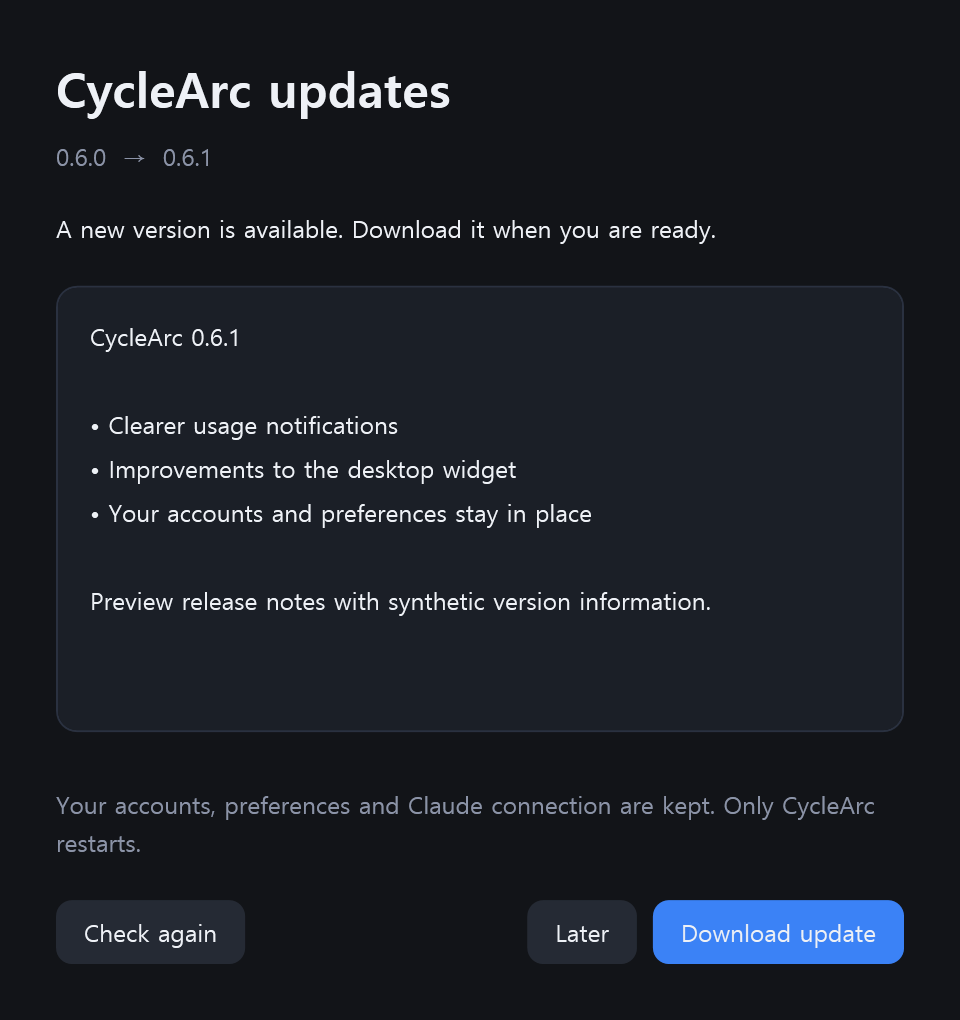
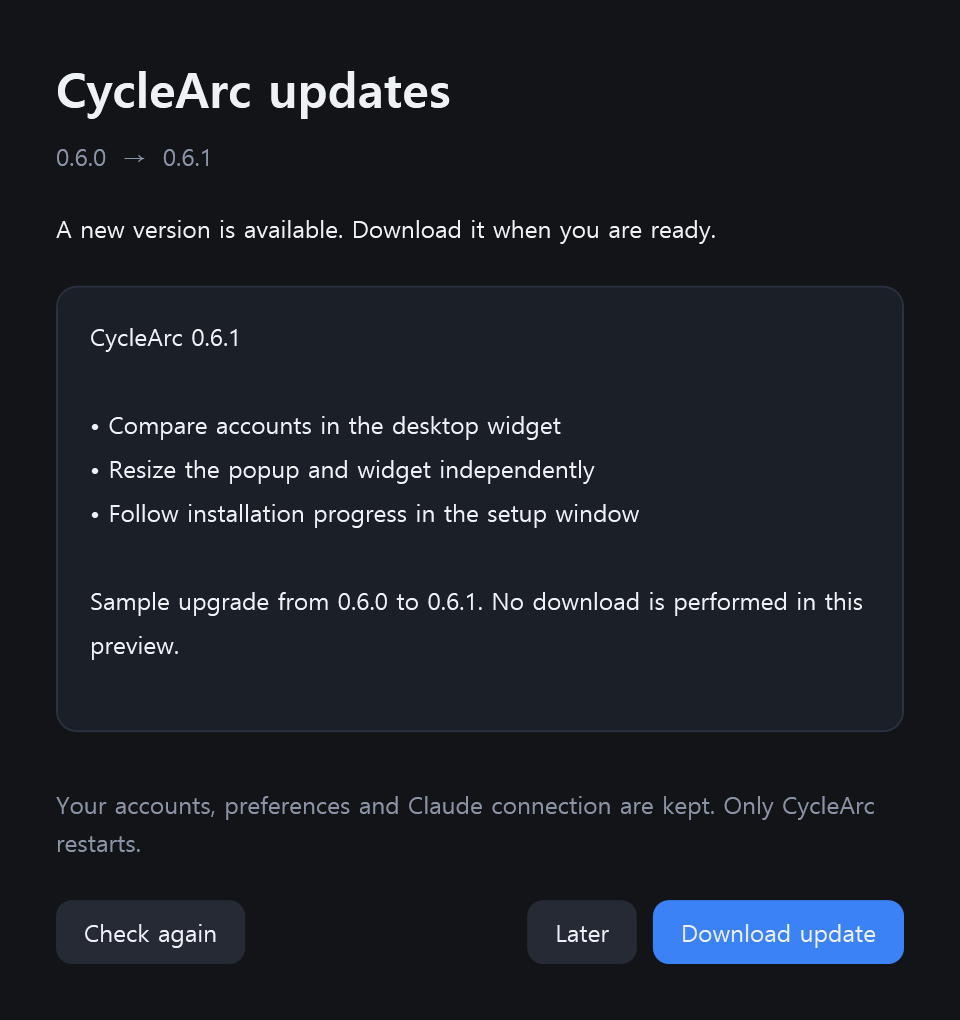
docs: refresh current previews and prepare CycleArc 0.6.1

Changed region(s): [[0.0938, 0.4559, 0.6562, 0.5167], [0.0938, 0.5775, 0.9062, 0.6382], [0.125, 0.3951, 0.5938, 0.4255]]

diff --git a/tests/CycleArc.UiSmoke/UpdateUiChecks.cs b/tests/CycleArc.UiSmoke/UpdateUiChecks.cs
@@ -162,8 +162,8 @@ internal static class UpdateUiChecks
         public int Downloads { get; private set; }
         public int Applies { get; private set; }
         public Task<AppUpdateRelease?> CheckAsync(CancellationToken token) => Task.FromResult<AppUpdateRelease?>(new("0.6.1",
-            UiText.T("CycleArc 0.6.1\n\n• Clearer usage notifications\n• Improvements to the desktop widget\n• Your accounts and preferences stay in place\n\nPreview release notes with synthetic version information.",
-                "CycleArc 0.6.1\n\n• 사용량 알림 개선\n• 데스크톱 위젯 안정성 개선\n• 기존 계정과 설정 유지\n\n가상 버전 정보로 표시한 업데이트 화면 예시입니다.")));
+            UiText.T("CycleArc 0.6.1\n\n• Compare accounts in the desktop widget\n• Resize the popup and widget independently\n• Follow installation progress in the setup window\n\nSample upgrade from 0.6.0 to 0.6.1. No download is performed in this preview.",
+                "CycleArc 0.6.1\n\n• 데스크톱 위젯에서 여러 계정 비교\n• 팝업과 위젯 크기를 각각 조절\n• 설치 화면에서 진행 상태 확인\n\n0.6.0에서 0.6.1로 업데이트하는 예시입니다. 이 미리보기는 다운로드하지 않습니다.")));
         public Task DownloadAsync(AppUpdateRelease release, IProgress<int> progress, CancellationToken token)
         {
             Downloads++;

diff --git a/README.md b/README.md
@@ -29,7 +29,7 @@ The **Codex** or **Claude** label on account cards, selected details, tray toolt
 
 ## At a glance
 
-- **Codex and Claude together.** Connect an existing CLI login or sign in through the official browser flow. Connected Claude accounts appear immediately, with **Awaiting usage** until the first sample; choose which account appears in the tray and widget.
+- **Codex and Claude together.** Connect an existing CLI login or sign in through the official browser flow. Connected Claude accounts appear immediately, with **Awaiting usage** until the first sample. Select an account for the detail card and tray; the widget compares accounts side by side and highlights the selection.
 - **Usage in the tray.** A Windows notification-area icon keeps the meter within reach. Click for the detailed card; pin it to keep it visible.
 - **Clear quota windows.** See usage and remaining percentages, reset times and countdowns for each reported five-hour or weekly window. The ring, tray and widget share one display period: **Auto** uses a known five-hour percentage first, then weekly. Choose **Auto / 5 hours / Weekly** above the detail ring, or click the ring to switch when both values are known. The selection applies immediately to all three views and is saved across restarts. If the selected period has no known value, a known available period is shown with an explanation in the detail card.
 - **Reset credits.** View the available count and expiry times when the server supplies them. Use an individual reset after confirmation. Missing expiry information stays explicitly unknown.
@@ -39,10 +39,10 @@ The **Codex** or **Claude** label on account cards, selected details, tray toolt
 
 ## Get started
 
-**Requirements:** Windows 10/11 on x64. Codex monitoring requires an installed Codex CLI signed into a ChatGPT account that reports subscription limits, and network access. Claude monitoring requires the official Claude CLI for connection verification, Windows PowerShell, a signed-in Claude Desktop account for live checks, and a signed-in Claude Pro or Max account. StatusLine and Desktop subscription history remain fallbacks; Codex sign-in is not required.
+**Requirements:** Windows 10/11 on x64. Codex monitoring requires the installed Codex CLI and network access; discover an existing CLI login or sign in to another account through CycleArc. Claude monitoring requires the official Claude CLI for connection verification, Windows PowerShell, a signed-in Claude Desktop account for live checks, and a signed-in Claude Pro or Max account. StatusLine and Desktop subscription history remain fallbacks.
 
 1. Download **`CycleArc-Setup.exe`** from the [latest release](https://github.com/frozenvoice/cyclearc/releases/latest).
-2. Run the setup program. CycleArc installs under `%LOCALAPPDATA%\CycleArc`; the .NET runtime is bundled. Your settings, accounts and quota cache remain under `%LOCALAPPDATA%\ProMeter`.
+2. Run the setup program, review the installation location and choose **Install**. Follow its progress, then choose **Run CycleArc → Finish**. A new installation goes under `%LOCALAPPDATA%\Programs\CycleArc`; an existing installation keeps its registered location, including the former `%LOCALAPPDATA%\CycleArc` path. The .NET runtime is bundled. Your settings, accounts and quota cache remain under `%LOCALAPPDATA%\ProMeter`.
 3. Open the tray icon and **Manage accounts → Add an account**. For Codex, existing CLI sign-ins are discovered automatically; choose **New account sign-in** to add another account. For Claude, choose **Connect Claude**, then connect the current login or sign in through your browser.
 4. Codex appears after a successful quota check; Claude appears after verified connection and attempts a Desktop live check, with statusLine/history fallback when needed. If Codex cannot be found, install the [Codex CLI](https://developers.openai.com/codex/cli/) or open **Settings → Connection** and select its executable path. For Claude setup, follow the [connection steps below](#claude-code-connection).
 
@@ -52,15 +52,15 @@ CycleArc discovers `codex.exe` or `codex.cmd` through PATH and supported install
 
 An ordinary launch keeps the first running instance and opens its popup, which shows the running version. Development builds and releases have equal priority. Windows startup uses the installed launcher and does not bring an already running window forward.
 
-The setup installs the stable channel and keeps it current through GitHub Releases. CycleArc checks 20 seconds after startup and then every six hours. A stable release is offered with English/Korean release notes; choose **Download**, then **Restart & update** to apply it, or choose **Later**. Updates are not applied automatically at startup. The complete `.nupkg` is SHA-256 checked after download and again before Velopack applies it.
+The setup installs the stable channel and keeps it current through GitHub Releases. CycleArc checks 20 seconds after startup and then every six hours. A stable release is offered with English/Korean release notes; choose **Download update**, then **Restart & update** to apply it, or choose **Later**. Updates are not applied automatically at startup. The complete `.nupkg` is SHA-256 checked after download and again before Velopack applies it.
 
 Release artifacts are unsigned unless the release pipeline is configured for code signing. Installing with `CycleArc-Setup.exe` alone does not remove Windows SmartScreen warnings.
 
 Before replacement, CycleArc keeps a verified copy of the previous app outside its installation. If replacement fails or the new desktop does not become ready, a separate helper restores and restarts the previous version. Accounts and settings stay outside both app versions. If recovery itself is blocked, the backup is retained and its location is shown; this check covers startup, not failures later in a session.
 
-The installed desktop runs from `%LOCALAPPDATA%\CycleArc\current\CycleArc.exe`. `%LOCALAPPDATA%\CycleArc\CycleArc.exe` is the stable launcher used for desktop and Windows-startup entry points; Claude statusLine and failure callbacks use the current executable directly so stdin/stdout forwarding remains synchronous. Existing exact CycleArc-owned Claude callbacks migrate after a matching CLI identity check, including when their old executable has already been removed. Unrelated settings, the previous statusLine command, account bindings and nicknames remain intact.
+The installed desktop runs from `current\CycleArc.exe` under its managed installation root. For a new install that is `%LOCALAPPDATA%\Programs\CycleArc\current\CycleArc.exe`; an existing install can remain at `%LOCALAPPDATA%\CycleArc\current\CycleArc.exe` or another registered `InstallLocation`. The root `CycleArc.exe` is the stable launcher used for desktop and Windows-startup entry points; Claude statusLine and failure callbacks use the current executable directly so stdin/stdout forwarding remains synchronous. Existing exact CycleArc-owned Claude callbacks migrate after a matching CLI identity check, including when their old executable has already been removed. Unrelated settings, the previous statusLine command, account bindings and nicknames remain intact.
 
-The first setup launch can close an older canonical legacy desktop after verifying its current-session IPC identity. A development build running from another path keeps the normal first-instance policy. The former `%LOCALAPPDATA%\Programs\CycleArc` installation is retained for development compatibility and is not updated by the GitHub release checker.
+The first setup launch can close an older canonical legacy desktop after verifying its current-session IPC identity. A development build running from another path keeps the normal first-instance policy. The former `%LOCALAPPDATA%\CycleArc` installation is retained when it already exists, while development builds use `%LOCALAPPDATA%\Programs\CycleArc-dev` and are not updated by the GitHub release checker.
 
 Removing CycleArc through **Settings → Apps** (or `Update.exe --uninstall`) restores the Claude settings this installation changed before its files are deleted. Only callbacks that belong to the installation being removed are touched: the previous statusLine comes back exactly as it was, the CycleArc failure hook is removed, and a statusLine you replaced yourself, another tool's hooks and any wrapper belonging to a different CycleArc installation stay as they are. Accounts, preferences, quota history and Claude connection records under `%LOCALAPPDATA%\ProMeter` are never deleted or signed out, so reinstalling finds them again. The cleanup is time-boxed and cannot delay removal; when settings are locked, damaged or edited at the same moment, the file is left untouched and the outcome is recorded in `%LOCALAPPDATA%\ProMeter\claude-uninstall-cleanup.json`.
 
@@ -68,7 +68,7 @@ Removing CycleArc through **Settings → Apps** (or `Update.exe --uninstall`) re
 <summary><strong>Update preview</strong></summary>
 
 <p><img src="docs/images/updates-en-light.png" alt="CycleArc update window with current and new versions, release notes, Later and Download update" width="480"></p>
-<p>Production WPF view with synthetic 0.6.1 release notes. Downloading does not restart the app; a separate Restart &amp; update action appears after verification.</p>
+<p>Production WPF view showing a sample 0.6.0 → 0.6.1 upgrade with release highlights for the multi-account widget, independent popup/widget sizing, and install progress. Downloading does not restart the app; a separate Restart &amp; update action appears after verification.</p>
 
 </details>
 
@@ -150,7 +150,7 @@ Browser sign-in has a five-minute deadline and can be cancelled. If it times out
 
 **Claude subscription usage is shared across Web, Desktop and Code.** CycleArc actively checks the shared quota during manual refresh and the configured automatic interval through the connected Claude Desktop login. A successful server check is labeled **Updated** with its last checked time. Claude Code statusLine and Claude Desktop's local subscription usage history remain fallback receipts, labeled **Received** with their source time; Web/Desktop activity also consumes the same allowance. [Official usage-limit explanation](https://support.claude.com/en/articles/11647753-how-do-usage-and-length-limits-work).
 
-To check current usage independently, choose **Open usage page** on the Claude detail card or connection window. It opens [Claude Settings → Usage](https://claude.ai/settings/usage) in your browser; check that the intended account is signed in. Opening the page does not refresh CycleArc. Public API, CLI and SDK documentation still provide no supported stable personal-subscription quota query. CycleArc 0.6.0 uses a narrow private first-party Desktop profile/usage path for its live check; it may change without notice. See the [dated research and decision](docs/CLAUDE-USAGE-RESEARCH.md).
+To check current usage independently, choose **Open usage page** on the Claude detail card or connection window. It opens [Claude Settings → Usage](https://claude.ai/settings/usage) in your browser; check that the intended account is signed in. Opening the page does not refresh CycleArc. Public API, CLI and SDK documentation still provide no supported stable personal-subscription quota query. CycleArc uses a narrow private first-party Desktop profile/usage path for its live check; it may change without notice. See the [dated research and decision](docs/CLAUDE-USAGE-RESEARCH.md).
 
 1. Open **Manage accounts → Add an account → Connect Claude**. Set an optional nickname.
 2. Choose **Connect current login** to verify the existing Claude CLI login, or **Sign in to Claude** to complete the official browser flow. CLI verification establishes the CycleArc connection; live quota requests use the connected Claude Desktop login. Other settings and the existing status line are preserved; no JSON copying is required.
@@ -266,7 +266,7 @@ CycleArc is an independent project and is not affiliated with or endorsed by Ope
 
 ## Build from source
 
-Requires Windows, PowerShell 7, and the .NET 8 SDK.
+Requires Windows, PowerShell 7, and the .NET 8 SDK. Building the installer from source also requires Visual Studio 2022 with the **Desktop development with C++** workload because the setup window is Native AOT; running a shipped installer does not.
 
 ```powershell
 git clone https://github.com/frozenvoice/cyclearc.git
@@ -274,11 +274,11 @@ cd cyclearc
 .\dev-run.ps1
 ```
 
-Double-click **`build-local.cmd`** in the repository root to build the current checkout, package `CycleArc-Setup.exe`, install that package into the managed Velopack location (`%LOCALAPPDATA%\CycleArc`, or the existing InstallLocation), and start `%LOCALAPPDATA%\CycleArc\CycleArc.exe`. It runs `dev-run.ps1 -NoLaunch` in a separate process, then uses Setup.exe. It does not copy the development EXE to `%LOCALAPPDATA%\Programs\CycleArc`.
+Double-click **`build-local.cmd`** in the repository root to build the current checkout, package `CycleArc-Setup.exe`, install that package into the managed Velopack location (new installs use `%LOCALAPPDATA%\Programs\CycleArc`; existing installs keep their registered `InstallLocation`), and start the root `CycleArc.exe` launcher from that location. It runs `dev-run.ps1 -NoLaunch` in a separate process, then uses Setup.exe. It does not copy the development EXE to the managed install.
 
 The running desktop is only stopped after the gate is green and this run's Setup.exe exists, and it is stopped by a verified desktop IPC request for the current user's session, never by name. A failed build therefore leaves the installed app running. On failure the window prints the stage the run actually reached from `artifacts\build-local\last-failure.txt` (`Failed at:` plus a sub-stage such as `ui-smoke-desktop-instance`, not a blanket `Stage: build`), so a failure after Setup.exe started is not reported as "the previous installation is intact", and the nonzero exit code reaches CMD. `dev-run.ps1` stdout and stderr are captured to `artifacts\build-local\dev-run.out.log` and `dev-run.err.log`; a failed gate prints a tail of those files so a UiSmoke error is visible in the same window. Successful runs print each stage's elapsed time instead of dumping those logs.
 
-`.\dev-run.ps1` remains the development publish path. It is fail-fast: restore and **Release** compile first, then the desktop-instance process check, installer/build-local script regressions, the unit suite, remaining WPF checks, then publish, package and package verification. It then publishes the development **single-file Windows x64 `CycleArc.exe`**, without debug symbols. Development output uses `%LOCALAPPDATA%\Programs\CycleArc\CycleArc.exe` for compatibility with existing source workflows; it is separate from the stable Velopack installation under `%LOCALAPPDATA%\CycleArc` and is not selected by the GitHub update checker. Build staging stays in the current checkout; `-NoLaunch` does not stop or replace the installed app. Filesystem deployment can restore the previous build when replacement fails; a successful file rollback does not guarantee that a newly started app passed a health check.
+`.\dev-run.ps1` remains the development publish path. It is fail-fast: restore and **Release** compile first, then the desktop-instance process check, installer/build-local script regressions, the unit suite, remaining WPF checks, then publish, package and package verification. It then publishes the development **single-file Windows x64 `CycleArc.exe`**, without debug symbols. Development output uses `%LOCALAPPDATA%\Programs\CycleArc-dev\CycleArc.exe`; it is separate from the stable Velopack installation, whose new-install default is `%LOCALAPPDATA%\Programs\CycleArc` and whose existing location is preserved, and it is not selected by the GitHub update checker. Build staging stays in the current checkout; `-NoLaunch` does not stop or replace the installed app. Filesystem deployment can restore the previous build when replacement fails; a successful file rollback does not guarantee that a newly started app passed a health check.
 
 Preflight reports existing desktop PIDs and executable paths. After validation, the installer stops verified CycleArc desktops in the current Windows session and checks that the single-instance lock is gone before replacing files. If a desktop is running directly from build output, preflight identifies it before cleanup; exit that instance and rerun the script.
 
@@ -290,11 +290,11 @@ Preflight reports existing desktop PIDs and executable paths. After validation, 
 
 `scripts/Verify-InstalledUpdate.ps1` verifies the installed application end to end: it builds three test executables with different versions and hashes, installs the first with its real `Setup.exe`, updates to the second through the production update window, coordinator, updater and recovery supervisor, forces a build that fails to start so the supervisor restores and restarts the previous version, and finally removes the installation and checks the Claude cleanup and data preservation. It installs, updates and removes CycleArc for the current Windows user and cannot isolate the data root, uninstall registry entry, shortcuts, single-instance mutex or desktop IPC, so run it only on a disposable Windows VM or a throwaway user account, with `-ConfirmDisposableEnvironment`. Its update feed is a local directory read by a test-only build flavour; HTTPS enforcement and package verification are unchanged, and its Claude accounts are synthetic rather than a live subscription check.
 
-For a GitHub release, commit and push the versioned changes, pass the local `-NoLaunch` gate and Windows CI, then run `pwsh -NoProfile -File ./scripts/Release.ps1 -Version 0.6.0 -NotesPath "./release-notes/0.6.0.md"` (replace the notes path with your prepared file). `-Preflight` runs the same local, package and remote checks without creating tags, drafts, uploads or public releases.
+For a GitHub release, first pass the local `-NoLaunch` gate on the final versioned changes, then commit and push them. After Windows push CI passes, run `pwsh -NoProfile -File ./scripts/Release.ps1 -Version 0.6.1 -NotesPath "./release-notes/0.6.1.md"` (use the version and notes file being released). `-Preflight` verifies source metadata, remote commit/CI state and the downloaded package without creating tags, drafts, uploads or public releases; it does not run the local build/test gate.
 
 The script downloads that commit's tested executable and installer assets, checks their
 versions and uploaded SHA-256 values, and publishes the draft only after verification.
-Existing draft notes are preserved; a new release requires `-NotesPath "./release-notes/0.6.0.md"` (replace the notes path with your prepared file). Public assets and existing tag targets
+Existing draft notes are preserved; a new release requires `-NotesPath "./release-notes/0.6.1.md"` (replace the notes path with your prepared file). Public assets and existing tag targets
 are never overwritten. Publish does not start a new build, test or packaging run.
 
 | Path | Purpose |
@@ -308,7 +308,7 @@ See [Architecture](docs/ARCHITECTURE.md), [Validation](docs/VALIDATION.md), and 
 
 ## Upgrading from earlier releases
 
-Run the new `CycleArc.exe`. Existing preferences and quota-cache paths remain compatible. The former ChatGPT history reconstruction, browser companion, and WebView2 features are retired; old history data is neither read nor deleted by the active app. The old browser extension can be removed through your browser's extension manager.
+Run the new `CycleArc-Setup.exe`. Existing preferences and quota-cache paths remain compatible. The former ChatGPT history reconstruction, browser companion, and WebView2 features are retired; old history data is neither read nor deleted by the active app. The old browser extension can be removed through your browser's extension manager.
 
 Retained legacy source and tests are identified in the architecture document. The companion host and retired screens are excluded from the shipped executable.
 

diff --git a/release-notes/0.6.1.md b/release-notes/0.6.1.md
@@ -1,0 +1,25 @@
+# CycleArc 0.6.1
+
+## Multi-account widget and installation improvements
+
+- Compare Codex and Claude accounts side by side in the desktop widget, with each account's quota periods, remaining percentages, reset countdowns and refresh state. Select an account to open its details; refresh all accounts from the widget header.
+- Resize the popup and widget independently with their header buttons or `Ctrl` + `+` / `Ctrl` + `-`. Each window remembers its size. Clicking the widget header gives it keyboard focus without opening the popup.
+- Keep the widget on the monitor where you placed it, with improved layout, scrolling and recovery across display scales and monitor changes.
+- The Windows installer now shows confirmation, progress and completion, with a choice to run CycleArc when installation finishes. A fresh install uses `%LOCALAPPDATA%\Programs\CycleArc`; existing installations retain their location and account data.
+- Removing the installed app cleans up its own Claude callbacks while preserving unrelated Claude configuration and CycleArc account/settings data. Same-version repair waits for the existing desktop to release the installation.
+- The Settings window opens with its complete General tab visible. Local source builds have a checked `build-local.cmd` entry point, clearer progress and retained failure logs.
+- Updated the English and Korean guides and update previews to match the current controls, connection flow and installer behavior.
+
+Download `CycleArc-Setup.exe` for Windows x64. Existing installed releases can use **Check for updates → Download update → Restart & update**. Accounts, preferences and quota caches remain in `%LOCALAPPDATA%\ProMeter`.
+
+## 다중 계정 위젯과 설치 개선
+
+- 데스크톱 위젯에서 Codex와 Claude 계정별 사용 기간, 남은 비율, 초기화 카운트다운과 갱신 상태를 나란히 비교할 수 있습니다. 계정을 누르면 상세 화면이 열리고, 위젯 상단에서 전체 계정을 새로고침할 수 있습니다.
+- 팝업과 위젯의 상단 버튼 또는 `Ctrl` + `+` / `Ctrl` + `-`로 각 창의 크기를 따로 조절하고 저장합니다. 위젯 상단을 누르면 팝업을 열지 않고 키보드 초점을 받습니다.
+- 위젯을 놓은 모니터를 유지하며 화면 배율과 모니터 변경에 따른 배치, 스크롤, 위치 복구를 개선했습니다.
+- Windows 설치 프로그램에 확인·진행·완료 화면과 설치 후 실행 선택이 추가되었습니다. 새 설치는 `%LOCALAPPDATA%\Programs\CycleArc`를 사용하고, 기존 설치는 원래 위치와 계정 데이터를 유지합니다.
+- 앱 제거 시 해당 설치가 소유한 Claude 콜백을 정리하며, 다른 Claude 설정과 CycleArc 계정·설정 데이터는 보존합니다. 같은 버전 복구 설치는 기존 앱이 설치 파일 사용을 끝낼 때까지 기다립니다.
+- 설정 창을 열면 일반 탭의 내용이 모두 보이도록 수정했습니다. 소스 빌드용 `build-local.cmd`의 실행 검사, 진행 표시와 실패 로그 보존도 개선했습니다.
+- 한·영 안내와 업데이트 미리보기를 현재 조작 방식, 연결 흐름, 설치 동작에 맞춰 갱신했습니다.
+
+Windows x64용 `CycleArc-Setup.exe`를 다운로드하세요. 기존 설치형 버전에서는 **업데이트 확인 → 업데이트 다운로드 → 재시작 후 적용**을 사용할 수 있습니다. 계정·설정·사용량 캐시는 `%LOCALAPPDATA%\ProMeter`에 유지됩니다.

diff --git a/docs/images/README.md b/docs/images/README.md
@@ -7,7 +7,7 @@ reset times and credits illustrate the layout; they do not promise specific plan
 
 | Files | Contents |
 | --- | --- |
-| `updates-{en,ko}-{dark,light}.png` | Production update window with synthetic 0.6.1 release notes; download and restart require separate approval |
+| `updates-{en,ko}-{dark,light}.png` | Production update window showing a sample 0.6.0 → 0.6.1 upgrade with the release's widget and installer highlights; download and restart require separate approval |
 | `overview-dark.png`, `overview-light.png`, `settings.png`, `widget.png` | English single-account popup, settings, and the multi-account widget (three synthetic accounts in one row) |
 | `accounts-overview-{en,ko}-{dark,light}.png` | Two ready Codex accounts, with Work / 업무용 selected; the unconnected Claude profile is absent from the cards and counts |
 | `accounts-manage-{en,ko}-{dark,light}.png` | All three registered profiles, including unconnected Research / 실험용 Claude, with connection, nickname and saved-order controls |
@@ -23,6 +23,11 @@ weekly usage of 18% and 64%; Work is selected in the account overview, so its de
 64% used and its quota row includes 36% remaining. Research is unconnected in the main/manager
 comparison: the main popup counts two ready accounts, while management retains all three profiles.
 Account-management previews scroll to the bottom so all three sets of actions are visible.
+
+The widget has its own fixture in `DocumentationScreenshots.Export`: Personal (Codex, 28%
+weekly), Lab (Codex, 62% five-hour), and selected Work Claude (85% five-hour / 23% weekly).
+Its header shows independent size controls, shared refresh, Settings and Close widget.
+The settings preview uses the production window's declared size so the General tab is fully visible.
 
 The Claude previews use those same profiles with Research connected and selected, so all three
 accounts appear. The waiting view has no quota yet. The server preview supplies synthetic
@@ -72,7 +77,8 @@ All 16 Claude server, history, waiting and connection previews:
 dotnet run --project tests/CycleArc.UiSmoke/CycleArc.UiSmoke.csproj -c Release --no-build -- --claude-desktop-screenshots artifacts/claude-docs
 ```
 
-Only the 18 detail previews affected by the shared display-period selector:
+Only the 18 detail previews affected by the shared display-period selector or the version
+shown in the popup header (regenerate these after changing `Directory.Build.props`):
 
 ```powershell
 dotnet run --project tests/CycleArc.UiSmoke/CycleArc.UiSmoke.csproj -c Release --no-build -- --usage-period-screenshots artifacts/period-docs
